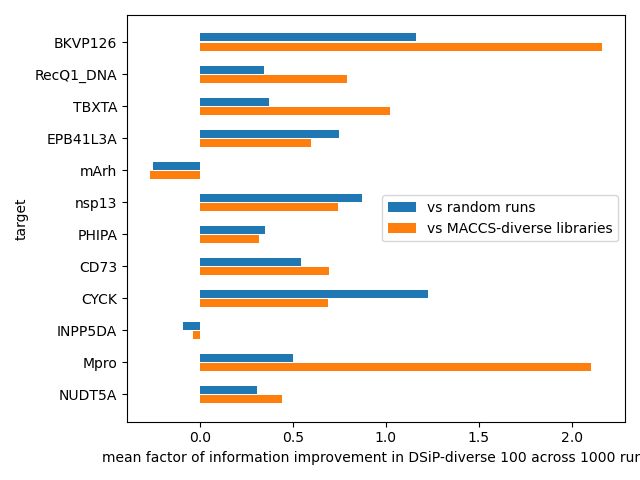
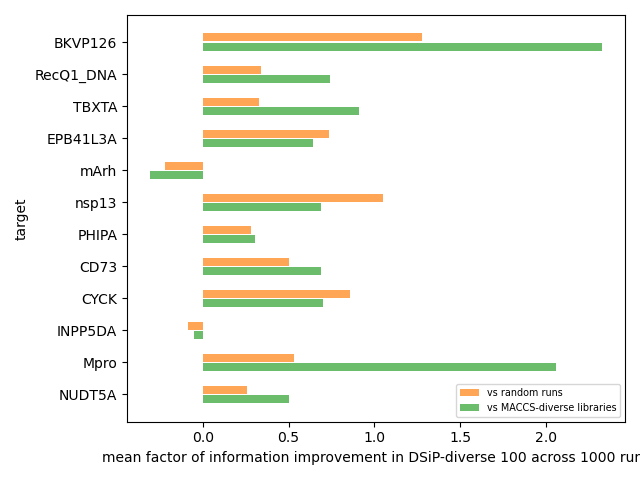
added atomic interactions

diff --git a/scripts/generate_atomic_IFPs.py b/scripts/generate_atomic_IFPs.py
@@ -1,0 +1,171 @@
+import os
+from oddt.fingerprints_new import InteractionFingerprintAtomic, tanimoto
+import oddt
+import sys 
+from pymol import cmd
+import statistics
+from rdkit import Chem
+from rdkit.Chem import AllChem
+from rdkit.Chem import DataStructs, SaltRemover
+import json
+
+
+def separate_files(filepath):
+
+    # takes in a protein-ligand complex and separates files into protein and ligand pdb files
+
+    cmd.reinitialize()
+    cmd.load(filepath, 'complex')
+    cmd.select('lig', 'resn LIG')
+    cmd.save('data/tmp/lig.pdb', 'lig')
+    cmd.extract('hets', 'complex and HETATM')
+    cmd.save('data/tmp/prot.pdb', 'complex')
+
+
+def get_IFP():
+
+    # uses the previously split protein and ligand files and caculates binary protein-ligand interaction fingerprint
+
+    lig = next(oddt.toolkit.readfile('pdb', 'data/tmp/lig.pdb'))
+    prot = next(oddt.toolkit.readfile('pdb', 'data/tmp/prot.pdb'))
+
+    prot.protein = True
+
+    IFP = InteractionFingerprintAtomic(lig, prot, strict=False)
+
+    print(IFP)
+
+    return IFP
+
+
+def get_DSiP_smiles():
+
+    # using the sdf files provided by Enamine, the molecules are cleaned of salts and converted into SMILES strings
+
+    DSiP = []
+
+    for filename in os.listdir('data/DSiP'):
+        DSiP += list(Chem.SDMolSupplier(f'data/DSiP/{filename}'))
+
+    remover = SaltRemover.SaltRemover()
+    DSiP = [remover.StripMol(mol) for mol in DSiP]
+    DSiP_smiles = [Chem.MolToSmiles(i) for i in DSiP]
+
+    return DSiP_smiles
+
+
+def get_IFP_vectors(target):
+
+    # all IFPs for a particular target are calculated
+
+    ismiles = []
+    ifrags = []
+    ivecs = []
+
+    for ligand in os.listdir(f'{DATA_DIR}/{target}'):
+
+
+        try:
+            if len(xtal_smiles[ligand]) > 1:
+                xtal_smiles[ligand] = [min(xtal_smiles[ligand])]
+            if Chem.MolToSmiles(Chem.MolFromSmiles(xtal_smiles[ligand][0])) in DSiP_smiles:
+
+                separate_files(f'{DATA_DIR}/{target}/{ligand}')
+
+                print(ligand)
+
+                IFP = get_IFP()
+            
+                if list(IFP).count(0) < len(IFP):
+                    ismiles.append(Chem.MolToSmiles(Chem.MolFromSmiles(xtal_smiles[ligand][0])))
+                    ifrags.append(ligand)
+                    ivecs.append(IFP)
+                    print(ligand, [i for i in range(len(IFP)) if IFP[i] > 0])
+                else:
+                    print(ligand, 'no interactions detected')
+
+        
+        except IndexError:
+            pass
+    
+    return ismiles, ifrags, ivecs
+
+
+def get_uniform_IFPs(ismiles, ifrags, ivecs):
+
+    # IFPs are analysed to determine most common length (due to some models missing residues)
+    # only IFPs of identical length are returned
+
+    smiles = []
+    frags = []
+    vecs = []
+
+    lengths = [len(i) for i in ivecs]
+    length = statistics.mode(lengths)
+    print(length)
+
+    wrong = 0
+    for i in range(len(ivecs)):
+        if len(ivecs[i]) == length:
+            vecs.append(ivecs[i])
+            frags.append(ifrags[i])
+            smiles.append(ismiles[i])
+        else:
+            wrong += 1
+
+    return vecs, frags, smiles, wrong
+
+
+def get_smiles_bits(vecs, smiles):
+
+    # take IFP vectors and assign 'on' bits to the smiles strings responsible
+
+    smiles_bits = {}
+
+    for i in range(len(smiles)):
+        if smiles[i] not in smiles_bits:
+            smiles_bits[smiles[i]] = []
+
+        for f in range(len(smiles)):
+            mol1, mol2 = Chem.MolFromSmiles(smiles[i]), Chem.MolFromSmiles(smiles[f])
+            mol_sim = DataStructs.DiceSimilarity(AllChem.GetMorganFingerprint(mol1,2), AllChem.GetMorganFingerprint(mol2, 2))
+            if mol_sim == 1:
+                smiles_bits[smiles[i]] += [b for b in range(len(vecs[f])) if vecs[f][b] != 0]
+        
+    for smiles in smiles_bits:
+        smiles_bits[smiles] = list(set(smiles_bits[smiles]))
+    
+    return smiles_bits
+
+
+DATA_DIR = '/dls/science/users/tyt15771/DPhil/Lib_activity/data'
+
+target_data = {}
+DSiP_smiles = get_DSiP_smiles()
+print('DSiP total compounds:', len(set(DSiP_smiles)))
+
+xtal_smiles = json.load(open('data/datafiles/xtal_smiles.json', 'r'))
+
+
+# for target in os.listdir(DATA_DIR):
+for target in ['Mpro', 'BKVP126', 'ReqQ1_DNA', 'TBXTA', 'EPB41L3A', 'mArh', 'nsp13', 'PHIPA', 'CD73', 'CYCK', 'INPP5DA', 'NUDT5A']:
+
+    try:
+        print(target)
+
+        ifrags, ivecs, ismiles = get_IFP_vectors(target)
+        vecs, frags, smiles, wrong = get_uniform_IFPs(ifrags, ivecs, ismiles)
+
+        print('IFPs:', len(vecs))
+        print('vectors of wrong length:', wrong)
+
+        smiles_bits = get_smiles_bits(vecs, smiles)
+
+        print('structures:', len(vecs), ', unique smiles:', len(smiles_bits))
+        target_data[target] = smiles_bits
+        json.dump(target_data, open('data/datafiles/smiles_bits_atomic.json', 'w'))
+        print(smiles_bits)
+    
+    except:
+        print(target, 'error')
+        print(sys.exc_info()[1])

diff --git a/scripts/plot_figures.py b/scripts/plot_figures.py
@@ -138,12 +138,12 @@ plt.close()
 plt.figure(figsize=(10, 8))
 fig, ax = plt.subplots()
 pos = np.arange(len(smiles_bits))
-ax.barh(pos+0.15, improvement_random, height=0.25, label='vs random runs')
-ax.barh(pos-0.15, improvement_diverse, height=0.25, label='vs MACCS-diverse libraries')
+ax.barh(pos+0.15, improvement_random, height=0.25, label='vs random runs', color= '#ff7f0e', alpha=0.7)
+ax.barh(pos-0.15, improvement_diverse, height=0.25, label='vs MACCS-diverse libraries', color='#2ca02c', alpha=0.7)
 ax.set_yticks(pos)
 ax.set_yticklabels([t for t in smiles_bits])
 plt.xlabel(f'mean factor of information improvement in DSiP-diverse {lib_size} across 1000 runs')
 plt.ylabel('target')
-plt.legend()
+plt.legend(prop=fontP)
 plt.tight_layout()
 plt.savefig('figures/improvement_by_target_12-05.png')
